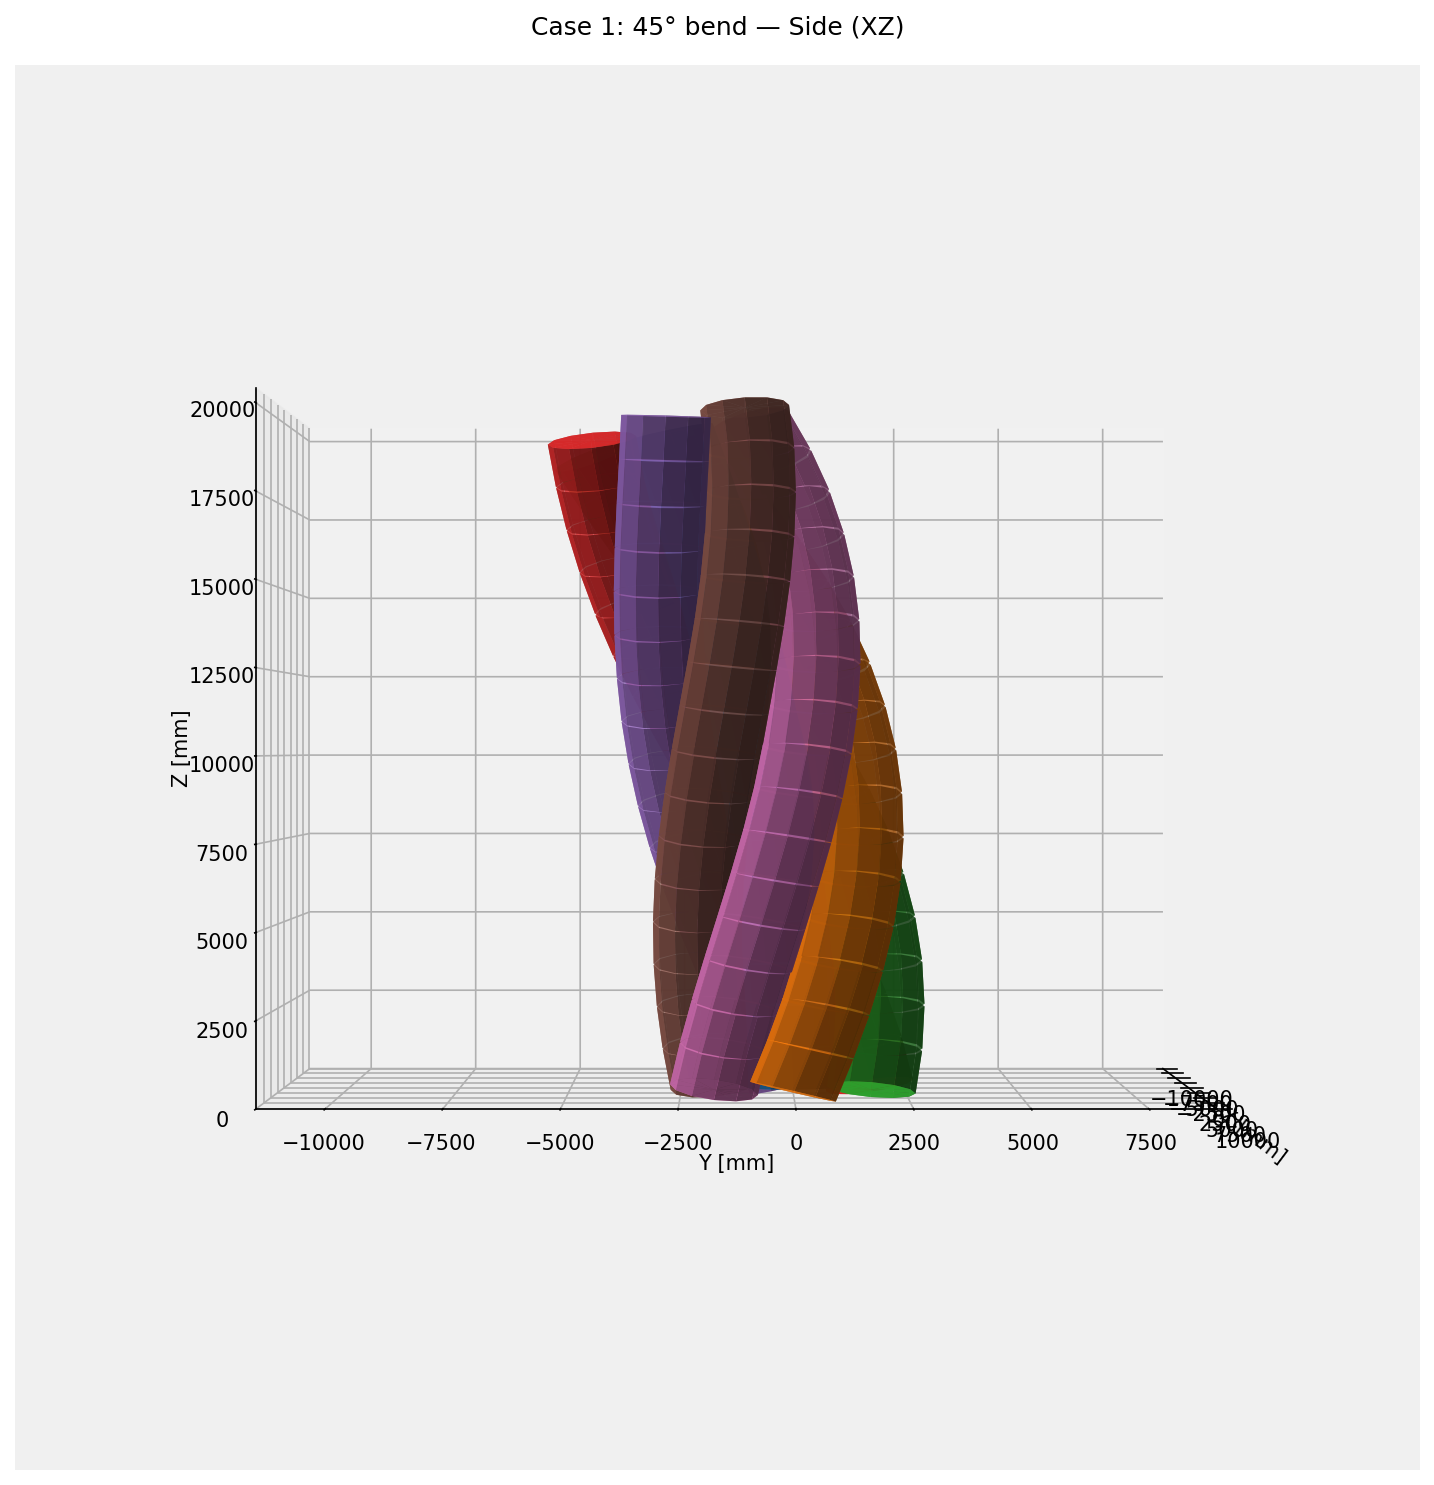
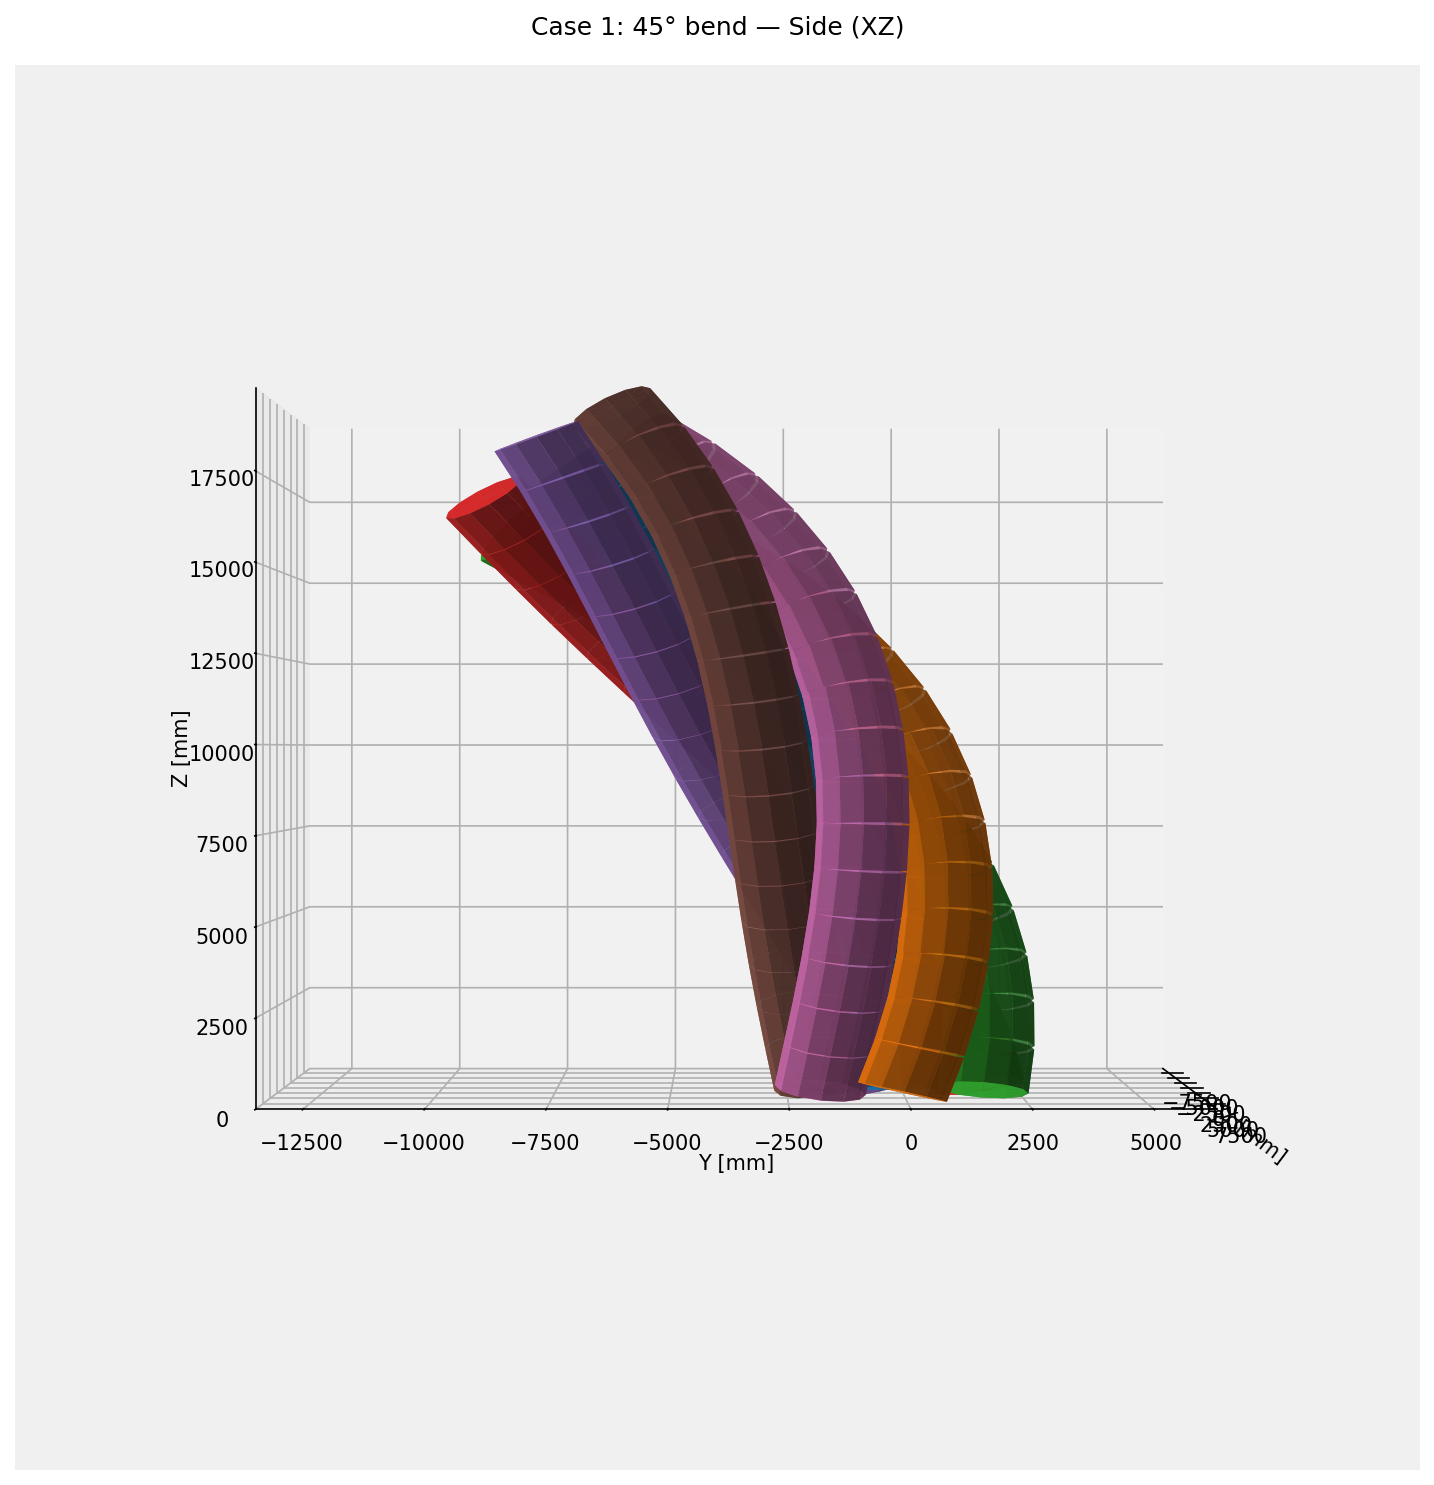
fix: smooth_penalty モードで3Dレンダリング再生成（全ケース収束）
前回のレンダリングスクリプトで contact_mode="smooth_penalty" が抜けており
NCP鞍点系が使われてCase 2が未収束だった。verify_smooth_penalty_friction_bend.py
と同じソルバー構成に修正。

結果:
- Case 1 (45° bend): converged, 43.3s
- Case 2 (90° bend): converged, 70.6s
- Case 3 (90° + osc 1cycle): converged, 485.5s

画像: initial, case1(45°), case2(90°), case3(mid/final) の iso/xz 計9枚

https://claude.ai/code/session_0161DrqhJQv5PNbiZ5ifjgg2

diff --git a/scripts/render_friction_bend_3d.py b/scripts/render_friction_bend_3d.py
@@ -24,15 +24,20 @@ def _common_params() -> dict:
         max_iter=50,
         tol_force=1e-4,
         show_progress=True,
+        # smooth penalty モード（NCP鞍点系ではなくsmooth penalty + Uzawa）
+        contact_mode="smooth_penalty",
         use_ncp=True,
         use_mortar=True,
         adaptive_timestepping=True,
+        # 接触パラメータ
         exclude_same_layer=True,
         midpoint_prescreening=True,
         use_line_search=False,
         g_on=0.0005,
         g_off=0.001,
+        # Updated Lagrangian
         use_updated_lagrangian=True,
+        # 摩擦パラメータ
         use_friction=True,
         mu=0.1,
     )
